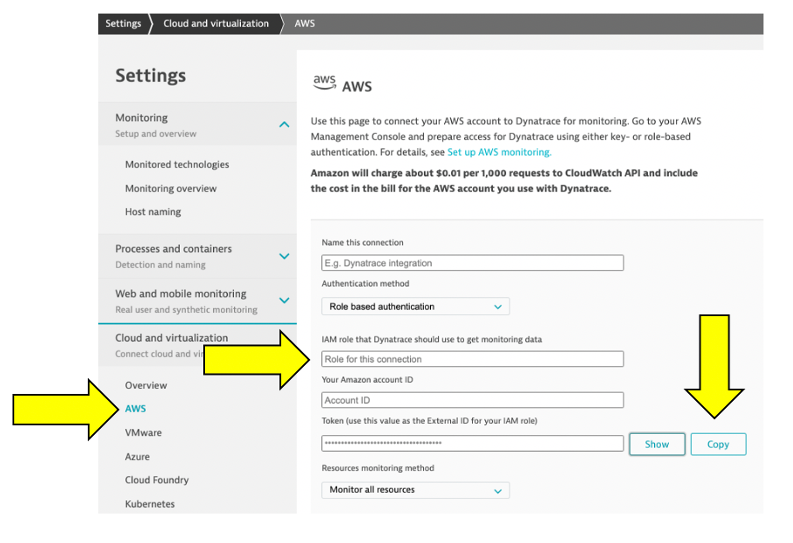
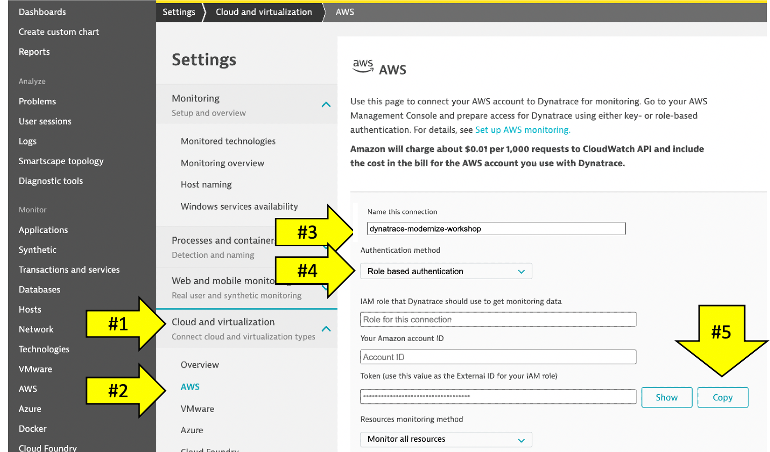
Update instruction and add info notes

diff --git a/content/15_workshop_setup/15_aws_monitor.md b/content/15_workshop_setup/15_aws_monitor.md
@@ -99,7 +99,7 @@ The AWS monitoring policy defines the minimum scope of permissions you need to g
 }
 ```
 
-4 . Give the policy a name. For example dynatrace_monitoring_policy. Type it in the Name field.
+4 . Use the policy name of `dynatrace_monitoring_policy`
 
 ![image](/images/dt-aws-dashboard-policy-name.png)
 
@@ -109,27 +109,43 @@ The AWS monitoring policy defines the minimum scope of permissions you need to g
 
 To give Dynatrace SaaS the role-based monitoring access to your AWS account, you need to create a dedicated monitoring role for Dynatrace in your AWS account. Dynatrace will use this role to authenticate in your AWS environment with the scope of permissions as defined by the monitoring policy. 
 
-1 . In your browser, open a new tab and sign in to Dynatrace to get the External Id that is needs for the IAM role. 
+1 . Go to Identity and Access Management (IAM) in your Amazon Console.
 
-2 . Go to **Settings > Cloud and virtualization > AWS**, click `Connect new instance` button, select `Role based authentication` method. 
+2 . Go to Roles and click the 'create role` button.
+
+![image](/images/dt-aws-dashboard-role.png)
+
+3 . Select the `Another AWS account` tile as to establish trust with the Dynatrace account. Also select the `Require external ID` option button 
+
+![image](/images/dt-aws-dashboard-role-trust-account.png)
+
+{{% notice info %}}
+The AWS Account ID for Dynatrace SaaS (e.g. https://YOUR_TENANT.live.dynatrace.com/) is **509560245411**. This AWS Account ID is the account that the role within the AWS account you are using for the workshop will use.  The Token generated on the Dynatrace AWS connection page, that is used in the external ID field for the AWS role, adds another level of security so that this role can only access the data for your specific Dynatrace tenant and Dynatrace connection. If you were using your own Dynatrace managed cluster, this AWS Account ID value would be different.
+{{% /notice %}}
+
+
+To get the Account and External ID for the AWS role, in your browser, open a new tab and sign in to Dynatrace.
+
+1 . Once logged in, goto **Settings > Cloud and virtualization**
+
+2 . Choose **AWS** menu then click `Connect new instance` button
+
+3 . Enter the name for this connection as `dynatrace-modernize-workshop`
+
+4 . select `Role based authentication` method. 
 
 ![image](/images/dt-aws-dashboard-dt.png)
+
+5 . click the **Copy** button next to the generated token.
 
 {{% notice warning %}}
 Keep this browser window open. We will come back to it shortly to copy the Token and test the connection.
 {{% /notice %}}
 
-3 . Go to Identity and Access Management (IAM) in your Amazon Console.
+Now back in the AWS console tab  **Create Role** page, enter these values:
 
-4 . Go to Roles and create a new role for Dynatrace.
-
-![image](/images/dt-aws-dashboard-role.png)
-
-5 . Select the `Another AWS account` tile as to establish trust with the Dynatrace account. On this section:
-
-* Type `509560245411` as the Account ID that can access your account. 
-* Choose the `Require external ID` option
 * Paste the `Token` value from your Dynatrace AWS connection page in Dynatrace to the `External ID` field
+* Type or copy `509560245411` to the Account ID field
 * Then click the `Next: Permissions` button.
 
 ![image](/images/dt-aws-dashboard-role-account.png)
@@ -150,23 +166,22 @@ Once you've granted AWS access to Dynatrace, it's time to connect Dynatrace to y
 
 1 . Go back on the Dynatrace connection page you still have open
 
-2 . Enter the name for this connection as `dynatrace-modernize-workshop`
+2 . In the Role field, use the name of the role you created easier: `dynatrace_monitoring_role`
 
-3 . In the Role field, use the name of the role you created easier: `dynatrace_monitoring_role`
-
-4 . Type your Account ID (the account you want us to pull metrics from).
+3 . Type your Account ID (the account you want us to pull metrics from).
 
 ![image](/images/dt-aws-dashboard-dt-setup.png)
 
-
-5 . Click `Connect` button to verify and once verified, click the `save` button.
+4 . Click `Connect` button to verify and once verified, click the `save` button.
 
 ## Thats it !
 
-Once the connection is successfully verified and saved, your AWS account will be listed in the Cloud and virtualization settings page and yuou should soon begin to see AWS cloud monitoring data.
-
-![image](/images/dt-aws-dashboard-overview.png)
+Once the connection is successfully verified and saved, your AWS account will be listed in the Cloud and virtualization settings page and you should soon begin to see AWS cloud monitoring data as shown below.
 
 {{% notice info %}}
 Dynatrace makes Amazon API requests every 5 minutes, so it might take a few minutes for data to show up for the first time.
 {{% /notice %}}
+
+![image](/images/dt-aws-dashboard-overview.png)
+
+![image](/images/dt-aws-dashboard.png)
